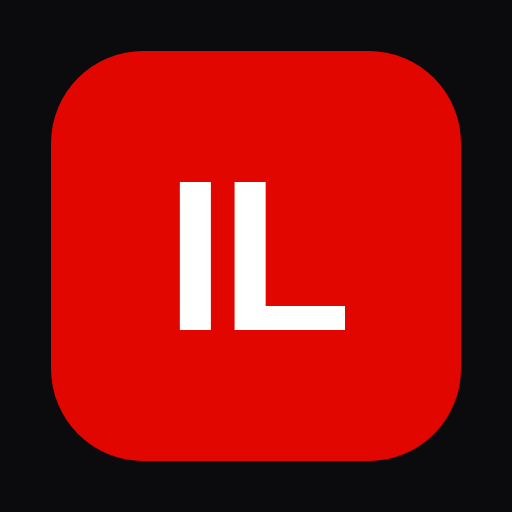
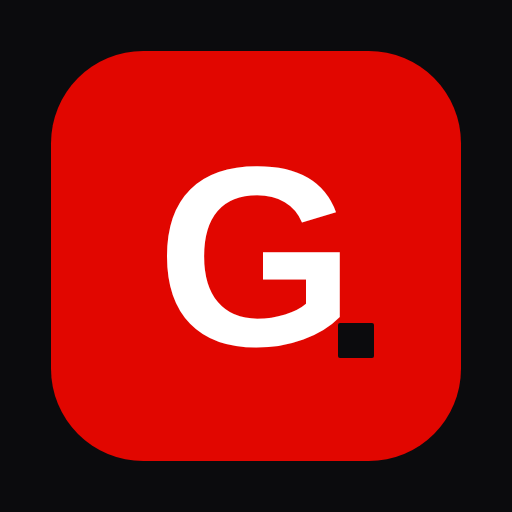
feat: アプリ名を GRIND に変更（ロゴ・タイトル・ホーム画面名・アイコン・バックアップのファイル名）
保存データの内部名（DB名・バックアップ識別子）は互換性のため ironlog のまま

Claude-Session: https://claude.ai/code/session_01N5pgkHG4CbSTbrZQYnRufH

Changed region(s): [[0.3125, 0.3125, 0.75, 0.7188]]

diff --git a/src/bootstrap.test.tsx b/src/bootstrap.test.tsx
@@ -1,4 +1,4 @@
-import { screen } from '@testing-library/react';
+import { screen, within } from '@testing-library/react';
 import { act } from 'react';
 import { checkStorage } from './db/checkStorage';
 import { bootstrap } from './bootstrap';
@@ -47,4 +47,12 @@ test('bootstrap: 初期データの準備に失敗したらエラー画面', asy
   document.body.appendChild(root);
   await act(() => bootstrap(root));
   expect(screen.getByText('データの準備に失敗しました。端末の空き容量を確認して、ページを再読み込みしてください。')).toBeInTheDocument();
+});
+
+test('エラー画面にもアプリ名 GRIND', async () => {
+  vi.stubGlobal('indexedDB', undefined);
+  const root = document.createElement('div');
+  document.body.appendChild(root);
+  await act(() => bootstrap(root));
+  expect(within(root).getByLabelText('GRIND')).toBeInTheDocument();
 });

diff --git a/src/bootstrap.tsx b/src/bootstrap.tsx
@@ -1,6 +1,7 @@
 import { StrictMode } from 'react';
 import { createRoot } from 'react-dom/client';
 import { App } from './App';
+import { Brand } from './components/Brand';
 import { checkStorage } from './db/checkStorage';
 import { ensureSeeded } from './db/seed';
 import { ensureMenuSeeded } from './db/menuSeed';
@@ -10,7 +11,9 @@ export async function bootstrap(el: HTMLElement): Promise<void> {
   const fail = (msg: string) =>
     root.render(
       <div className="page" style={{ textAlign: 'center', paddingTop: 120 }}>
-        <h1 className="page-title">IRON<span style={{ color: 'var(--red)' }}>LOG</span></h1>
+        <div style={{ display: 'flex', justifyContent: 'center', marginBottom: 16 }}>
+          <Brand size={32} />
+        </div>
         <p>{msg}</p>
       </div>,
     );

diff --git a/src/features/home/HomePage.tsx b/src/features/home/HomePage.tsx
@@ -11,6 +11,7 @@ import { TodayCard } from './TodayCard';
 import { volumeParts } from '../../lib/calc';
 import { formatMDW, toDateKey } from '../../lib/dates';
 import { completed, weekSummary, weeklySetsByBodyPart, workoutVolume } from '../../lib/summary';
+import { Brand } from '../../components/Brand';
 import { BodyPartBars } from './BodyPartBars';
 import { BodyweightCard } from './BodyweightCard';
 import s from './home.module.css';
@@ -49,7 +50,7 @@ export function HomePage() {
   return (
     <div className="page">
       <div className={s.top}>
-        <div className={s.brand}>IRON<span>LOG</span></div>
+        <Brand />
         <div className={s.date}>{formatMDW(now)}</div>
       </div>
 

diff --git a/index.html b/index.html
@@ -8,7 +8,7 @@
     <link rel="apple-touch-icon" href="./icon-192.png" />
     <meta name="apple-mobile-web-app-capable" content="yes" />
     <meta name="apple-mobile-web-app-status-bar-style" content="black-translucent" />
-    <title>IRON LOG</title>
+    <title>GRIND</title>
     <link rel="preconnect" href="https://fonts.googleapis.com" />
     <link rel="preconnect" href="https://fonts.gstatic.com" crossorigin />
     <link href="https://fonts.googleapis.com/css2?family=Oswald:wght@500;700&family=Noto+Sans+JP:wght@400;500;700&display=swap" rel="stylesheet" />

diff --git a/src/features/home/home.module.css b/src/features/home/home.module.css
@@ -1,6 +1,6 @@
 .top { display: flex; align-items: center; justify-content: space-between; margin-bottom: 16px; }
-.brand { font-family: var(--font-num); font-weight: 700; letter-spacing: .1em; font-size: 22px; }
-.brand span { color: var(--red); }
+
+
 .date { font-family: var(--font-num); font-size: 13px; color: var(--muted); letter-spacing: .05em; }
 .stats { display: grid; grid-template-columns: 1fr 1fr; gap: 10px; }
 .bw { display: flex; align-items: center; justify-content: space-between; margin-top: 12px; }

diff --git a/src/features/manage/BackupPanel.tsx b/src/features/manage/BackupPanel.tsx
@@ -13,7 +13,7 @@ export function BackupPanel() {
     const url = URL.createObjectURL(new Blob([JSON.stringify(data)], { type: 'application/json' }));
     const a = document.createElement('a');
     a.href = url;
-    a.download = `ironlog-${toDateKey(Date.now())}.json`;
+    a.download = `grind-${toDateKey(Date.now())}.json`;
     a.click();
     URL.revokeObjectURL(url);
     setMsg({ ok: true, text: 'エクスポートしました' });

diff --git a/src/components/Brand.tsx b/src/components/Brand.tsx
@@ -1,0 +1,12 @@
+/** アプリ名のロゴ（GRIND + 赤い点） */
+export function Brand({ size = 22 }: { size?: number }) {
+  return (
+    <div
+      role="img"
+      aria-label="GRIND"
+      style={{ fontFamily: 'var(--font-num)', fontWeight: 700, letterSpacing: '.12em', fontSize: size, lineHeight: 1 }}
+    >
+      GRIND<span style={{ color: 'var(--red)' }}>.</span>
+    </div>
+  );
+}

diff --git a/vite.config.ts b/vite.config.ts
@@ -11,8 +11,8 @@ export default defineConfig({
       registerType: 'autoUpdate',
       includeAssets: ['icon-192.png', 'icon-512.png'],
       manifest: {
-        name: 'IRON LOG',
-        short_name: 'IRON LOG',
+        name: 'GRIND',
+        short_name: 'GRIND',
         description: 'アスリート向け筋トレ記録',
         lang: 'ja',
         start_url: './',

diff --git a/src/features/home/HomePage.test.tsx b/src/features/home/HomePage.test.tsx
@@ -195,3 +195,9 @@ describe('記録中にルーティンをタップ', () => {
     expect((await getActiveWorkout())?.name).toBe('自由');
   });
 });
+
+test('アプリ名 GRIND を表示', async () => {
+  home();
+  expect(await screen.findByLabelText('GRIND')).toBeInTheDocument();
+  expect(screen.queryByText(/IRON/)).toBeNull();
+});

diff --git a/README.md b/README.md
@@ -1,4 +1,4 @@
-# IRON LOG
+# GRIND
 
 アスリート向けの筋トレ記録アプリ（スマホ向けPWA）。データは端末のブラウザ内（IndexedDB）にのみ保存されます。
 
